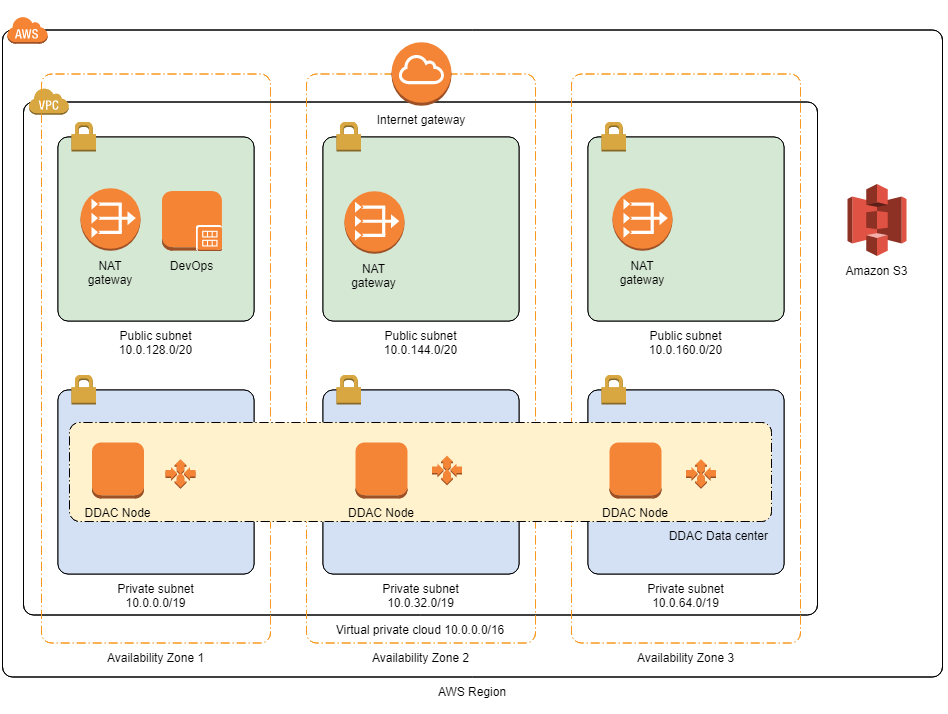
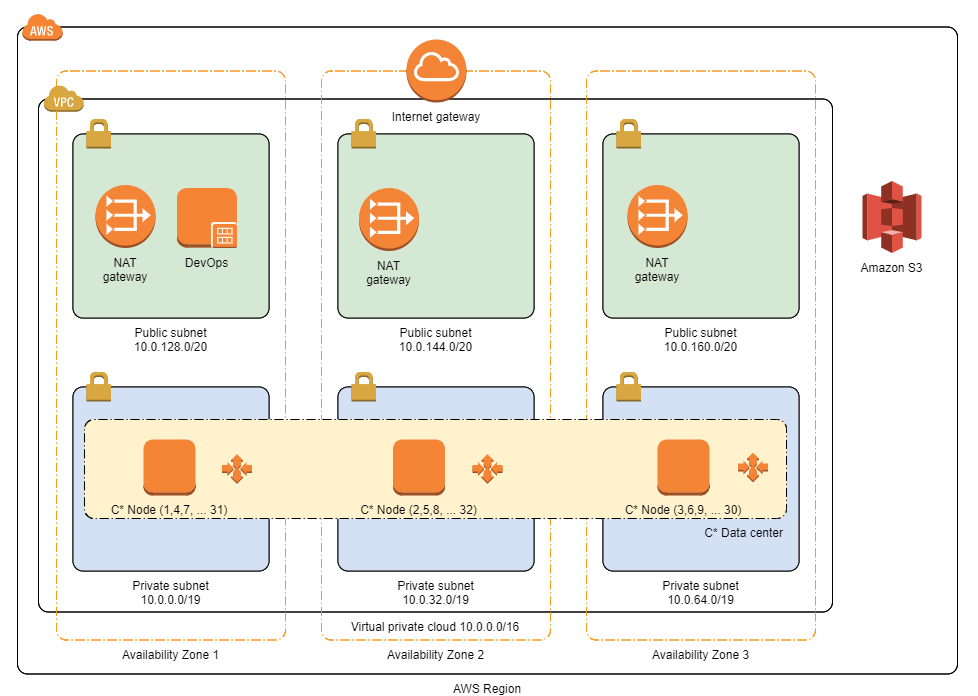
docs

diff --git a/docs/oss-qs-deployment-guide.md b/docs/oss-qs-deployment-guide.md
@@ -1,8 +1,8 @@
-<center><H1>DataStax Distribution of Apache Cassandra ™ on the AWS Cloud</H1></center>
+<center><H1>Apache Cassandra™ 4.0 on the AWS Cloud</H1></center>
 
 <center><H2>Quick Start Reference Deployment</H2></center>
 
-<center>Aug 2019</center>
+<center>Jun 2020</center>
 
 <center>DataStax, Inc.</center>
 
@@ -13,7 +13,7 @@
 - [Overview](#overview)
   - [Costs and Licenses](#costs-and-licenses)
 - [Architecture](#architecture)
-  - [DDAC Data Centers and Nodes](#ddac-data-centers-and-nodes)
+  - [Apache Cassandra Data Centers and Nodes](#apache-cassandra-data-centers-and-nodes)
 - [Prerequisites](#prerequisites)
   - [Specialized Knowledge](#specialized-knowledge)
   - [Technical Requirements](#technical-requirements)
@@ -34,15 +34,15 @@ This Quick Start deployment guide was created by Amazon Web Services (AWS) in pa
 
 # Overview
 
-This Quick Start reference deployment guide provides step-by-step instructions for deploying DataStax Distribution of Apache Cassandra (DDAC) on the Amazon Web Services (AWS) Cloud.
+This Quick Start reference deployment guide provides step-by-step instructions for deploying Apache Cassandra 4.0 on the Amazon Web Services (AWS) Cloud.
 
-As Apache Cassandra™ adoption grows within your organization, so could the challenges involved with using, maintaining, and supporting the technology. This can add considerable cost, complexity, and administrative burden. DataStax Distribution of Apache Cassandra addresses these challenges by streamlining operations and controlling costs for all your Cassandra workloads.
+As Apache Cassandra™ adoption grows within your organization, so could the challenges involved with using, maintaining, and supporting the technology. This can add considerable cost, complexity, and administrative burden. Apache Cassandra addresses these challenges by streamlining operations and controlling costs for all your Cassandra workloads.
 
-You’ll have access to best-in-class, 100% open source compatible Cassandra software, as well as support and services from the experts that authored the majority of the Cassandra code.
+You’ll have access to best-in-class, 100% open source Apache Cassandra software, as well as optional support and services from the experts that authored the majority of the Cassandra code.
 
-[Quick Starts](https://aws.amazon.com/quickstart/?quickstart-all.q=dse) are automated reference deployments that use AWS CloudFormation templates to launch, configure, and run the AWS compute, network, storage, and other services required to deploy a specific workload on AWS.
+[Quick Starts](https://aws.amazon.com/quickstart/?quickstart-all.q=datastax) are automated reference deployments that use AWS CloudFormation templates to launch, configure, and run the AWS compute, network, storage, and other services required to deploy a specific workload on AWS.
 
-This Quick Start is for users who need an easily deployed DDAC cluster for development and or testing purposes
+This Quick Start is for users who need an easily deployed Apache Cassandra cluster for development and or testing purposes
 
 ## Costs and Licenses
 
@@ -50,16 +50,16 @@ You are responsible for the cost of the AWS services used while running this Qui
 
 The AWS CloudFormation template for this Quick Start includes configuration parameters that you can customize. Some of these settings, such as instance type, will affect the cost of deployment. For cost estimates, see the pricing pages for each AWS service you will be using.
 
-This Quick Start includes a limited no-fee license from DataStax. As described in section 1.4 of [DataStax Enterprise Terms](http://www.datastax.com/enterprise-terms), the limited license is for development or non-production use.  To use the Quick Start to build a production environment, you&#39;ll need to acquire a DataStax subscription license.
+This Quick Start includes Apache Cassandra 4.0.
 &nbsp;
 
 # Architecture
 
-Deploying this Quick Start for a new virtual private cloud (VPC) with **default parameters** builds the following DataStax Enterprise environment in the AWS Cloud.
+Deploying this Quick Start for a new virtual private cloud (VPC) with **default parameters** builds the following environment in the AWS Cloud.
 
 ![Figure 1](./assets/arch.png)
 
-<p align=center><b>Figure 1: Quick Start architecture for DDAC on AWS</b></p>
+<p align=center><b>Figure 1: Quick Start architecture for Apache Cassandra on AWS</b></p>
 
 The Quick Start sets up the following components. (The template that deploys the Quick Start into an existing VPC skips the components marked by asterisks.)
 
@@ -67,15 +67,15 @@ The Quick Start sets up the following components. (The template that deploys the
 - A VPC configured with public and private subnets according to AWS best practices, to provide you with your own virtual network on AWS. For more information about the VPC infrastructure, see the [Amazon VPC Quick Start](https://aws.amazon.com/quickstart/architecture/vpc/).\*
 - An Internet gateway to allow access to the Internet.\*
 - Managed NAT gateways to allow outbound Internet access for resources in the private subnets.\*
-- One EC2 instance in the public subnet running devOps apps, which can also be used as a jumpbox to ssh into DDAC nodes in the private subnet.
-- Additional EC2 instances for DDAC nodes, depending on your Quick Start parameter settings. (By default, the Quick Start creates 3 DDAC nodes in private subnets (seednode1, seednode2 and an autoscaling group with 1 node) and can be expanded to a max of 6 nodes.
+- One EC2 instance in the public subnet running devOps apps, which can also be used as a jumpbox to ssh into Apache Cassandra nodes in the private subnet.
+- Additional EC2 instances for Apache Cassandra nodes, depending on your Quick Start parameter settings. (By default, the Quick Start creates 3 Apache Cassandra nodes in private subnets (seednode1, seednode2 and seednode3).
 - One Amazon Elastic Block Store (Amazon EBS) data volume per node instance deployed.
 
-## DDAC Data Centers and Nodes
+## Apache Cassandra Data Centers and Nodes
 
-DDAC data centers are groups of nodes, related and configured within a cluster for replication purposes. The Quick Start supports 1 data center  with 3 nodes that can scale to 6.
+Apache Cassandra data centers are groups of nodes, related and configured within a cluster for replication purposes. The Quick Start creates 1 data center with 1 - 32 nodes.
 
-DDAC stores data replicas on multiple nodes to ensure reliability and fault tolerance. A replication strategy determines the nodes where replicas are placed. The replication strategy is defined per keyspace, and is set during keyspace creation. This Quick Start places nodes in each AWS Availability Zone.
+Apache Cassandra stores data replicas on multiple nodes to ensure reliability and fault tolerance. A replication strategy determines the nodes where replicas are placed. The replication strategy is defined per keyspace, and is set during keyspace creation. This Quick Start places nodes in each AWS Availability Zone.
 &nbsp;
 
 # Prerequisites
@@ -90,7 +90,7 @@ Before you deploy this Quick Start, we recommend that you become familiar with t
 
 We also recommend that you become familiar with the features and configuration of Apache Cassandra.
 
-- [DDAC documentation](https://docs.datastax.com/en/ddac/doc/)
+- [Apache Cassandra documentation](https://cassandra.apache.org/doc/latest/new/index.html)
 
 ## Technical Requirements
 
@@ -100,10 +100,10 @@ This Quick Start uses a Linux AMI (Ubuntu 16.04 LTS) for EC2 instances, and crea
 
 This Quick Start provides two deployment options:
 
-- **Deploy DDAC into a new VPC** (end-to-end deployment). This option builds a new AWS environment consisting of the VPC, subnets, NAT gateways, security groups, and other infrastructure components, and then deploys DDAC cluster into this new VPC.
-- **Deploy DDAC into an existing VPC**. This option provisions DDAC cluster in your existing AWS VPC infrastructure.
+- **Deploy Apache Cassandra into a new VPC** (end-to-end deployment). This option builds a new AWS environment consisting of the VPC, subnets, NAT gateways, security groups, and other infrastructure components, and then deploys Apache Cassandra cluster into this new VPC.
+- **Deploy Apache Cassandra into an existing VPC**. This option provisions Apache Cassandra cluster in your existing AWS VPC infrastructure.
 
-The Quick Start provides separate templates for these options. It also lets you configure CIDR blocks, instance types, and DDAC settings, as discussed later in this guide.
+The Quick Start provides separate templates for these options. It also lets you configure CIDR blocks, instance types, and Apache Cassandra settings, as discussed later in this guide.
 &nbsp;
 
 # Deployment Steps
@@ -111,7 +111,7 @@ The Quick Start provides separate templates for these options. It also lets you 
 ## Step 1. Prepare Your AWS Account
 
 1. If you don&#39;t already have an AWS account, create one at [https://aws.amazon.com](https://aws.amazon.com) by following the on-screen instructions.
-2. Use the region selector in the navigation bar to choose the AWS Region where you want to deploy DDAC on AWS.
+2. Use the region selector in the navigation bar to choose the AWS Region where you want to deploy Apache Cassandra on AWS.
 3. Create a [key pair](https://docs.aws.amazon.com/AWSEC2/latest/UserGuide/ec2-key-pairs.html) in your preferred region.
 4. If necessary, [request a service limit increase](https://console.aws.amazon.com/support/home#/case/create?issueType=service-limit-increase&amp;limitType=service-code-) for the Amazon EC2 **m4.large** instance type. You might need to do this if you already have an existing deployment that uses this instance type, and you think you might exceed the [default limit](http://docs.aws.amazon.com/AWSEC2/latest/UserGuide/ec2-resource-limits.html) with this reference deployment.
 
@@ -121,21 +121,21 @@ The Quick Start provides separate templates for these options. It also lets you 
 
 1. Choose one of the following options to launch the AWS CloudFormation template into your AWS account. For help choosing an option, see deployment options earlier in this guide.
 
-| Option 1 - Deploy DDAC into a new VPC on AWS | Option 2 - Deploy DDAC into an existing VPC on AWS |
+| Option 1 - Deploy Apache Cassandra into a new VPC on AWS | Option 2 - Deploy Apache Cassandra into an existing VPC on AWS |
 | :------------------------------------------: | :------------------------------------------------: |
 |        [Launch](https://fwd.aws/mR5pP)       |           [Launch](https://fwd.aws/eq4AJ)          |
 
-> **Important**     If you&#39;re deploying DDAC into an existing VPC, make sure that your VPC has two (and preferably three) private subnets in different Availability Zones for the node instances. These subnets require [NAT gateways](https://docs.aws.amazon.com/vpc/latest/userguide/vpc-nat-gateway.html) or [NAT instances](https://docs.aws.amazon.com/vpc/latest/userguide/VPC_NAT_Instance.html) in their route tables, to allow the instances to download packages and software without exposing them to the Internet. You&#39;ll also need the domain name option configured in the DHCP options, as explained in the [Amazon VPC documentation](http://docs.aws.amazon.com/AmazonVPC/latest/UserGuide/VPC_DHCP_Options.html). You&#39;ll be prompted for your VPC settings when you launch the Quick Start.
+> **Important**     If you&#39;re deploying Apache Cassandra into an existing VPC, make sure that your VPC has three private subnets in different Availability Zones for the node instances. These subnets require [NAT gateways](https://docs.aws.amazon.com/vpc/latest/userguide/vpc-nat-gateway.html) or [NAT instances](https://docs.aws.amazon.com/vpc/latest/userguide/VPC_NAT_Instance.html) in their route tables, to allow the instances to download packages and software without exposing them to the Internet. You&#39;ll also need the domain name option configured in the DHCP options, as explained in the [Amazon VPC documentation](http://docs.aws.amazon.com/AmazonVPC/latest/UserGuide/VPC_DHCP_Options.html). You&#39;ll be prompted for your VPC settings when you launch the Quick Start.
 
-Each deployment takes about 10-15 minutes to complete, depending on the size of the DDAC cluster to deploy.
+Each deployment takes about 10-15 minutes to complete, depending on the size of the Apache Cassandra cluster to deploy.
 
-1. Check the region that&#39;s displayed in the upper-right corner of the navigation bar, and change it if necessary. This is where the network infrastructure for DDAC will be built. The template is launched in the US East (Ohio) Region by default.
+1. Check the region that&#39;s displayed in the upper-right corner of the navigation bar, and change it if necessary. This is where the network infrastructure for Apache Cassandra will be built. The template is launched in the US East (Ohio) Region by default.
 2. On the **Select Template** page, keep the default setting for the template URL, and then choose **Next**.
 3. On the **Specify Details** page, change the stack name if needed. Review the parameters for the template. Provide values for the parameters that require input. For all other parameters, review the default settings and customize them as necessary. When you finish reviewing and customizing the parameters, choose **Next**.
 
-In the following tables, parameters are listed by category and described separately for the two deployment options. Parameters for deploying DDAC into a new VPC and Parameters for deploying DDAC into an existing VPC
+In the following tables, parameters are listed by category and described separately for the two deployment options. Parameters for deploying Apache Cassandra into a new VPC and Parameters for deploying Apache Cassandra into an existing VPC
 
-- **Option 1: Parameters for deploying DDAC into a new VPC**
+- **Option 1: Parameters for deploying Apache Cassandra into a new VPC**
 
 [View template](https://fwd.aws/DyGDb)
 
@@ -148,42 +148,42 @@ _**VPC Network Configuration:**_
 | Private Subnet 1 CIDR (PrivateSubnet1CIDR) | 10.0.0.0/19 | CIDR block for private subnet 1 located in Availability Zone 1. |
 | Private Subnet 2 CIDR (PrivateSubnet2CIDR) | 10.0.32.0/19 | CIDR block for private subnet 2 located in Availability Zone 2. |
 | Private Subnet 3 CIDR (PrivateSubnet3CIDR) | 10.0.64.0/19 | CIDR block for private subnet 3 located in Availability Zone 3. |
-| Permitted IP range (RemoteAccessCIDR) | _Requires input_ | The CIDR IP range that is permitted to SSH to the DevOps EC2 instance for the console. We recommend that you set this value to a trusted IP range. For example, you might want to grant only your corporate network access to the software. |
 | Public Subnet 1 CIDR (PublicSubnet1CIDR) | 10.0.128.0/20 | CIDR block for the public (DMZ) subnet 1 located in Availability Zone 1. |
 | Public Subnet 2 CIDR (PublicSubnet2CIDR) | 10.0.144.0/20 | CIDR block for the public (DMZ) subnet 2 located in Availability Zone 2. |
 | Public Subnet 3 CIDR (PublicSubnet3CIDR) | 10.0.160.0/20 | CIDR block for the public (DMZ) subnet 3 located in Availability Zone 3. |
 
-_**DDAC Cluster/Nodes Configuration:**_
+_**Apache Cassandra Cluster/Nodes Configuration:**_
 
 | Parameter label (name) | Default | Description |
 | ---------------------- | :-----: | ----------- |
-| DDAC Install Type (DDACInstallType) | Dev | Choose "Dev" or "Standard". <br> Dev allows 1 or 2 nodes. <br>Standard installs 3 nodes in an autoscaling group with a max of 6. |
-| DDAC Number of nodes to install (DDACDevInstallNodeCount) | 1 | Choose "1" or "2". <br>If DDACInstallType=Standard, then this parameter is ignored|
-| Cluster Name (ClusterName) | DDAC-Cluster | The name of the DDAC cluster. |
-| Data Center Name (DatacenterName) | DDAC-dc0 | Name of the DDAC data center. |
-| Create Cluster in Public Subnet (CreateClusterWithPublicIP) | false | Should create the DDAC Cluster nodes in public subnet. |
-| DDAC Instance Type (DDACInstanceType) | m4.large | EC2 instance type for DDAC nodes. |
-| DDAC Volume Size (DDACVolumeSize) | 1024 | EBS volume size of the DDAC Cluster Nodes in GB. |
-| Email Address (EmailAddress) | _Requires input_ | Email Address for cloudwatch notifications. |
+| Apache Cassandra Version (OSSVersion) | 4.0 | Apache Cassandra version to install . |
+| Number of nodes to install (ClusterSize) | 3 | Choose from "1 - 32" for number of cassandra nodes to install.|
+| Cluster Name (ClusterName) | Cassandra-Cluster | The name of the Apache Cassandra cluster. |
+| Data Center Name (DatacenterName) | OSS-dc0 | Name of the Apache Cassandra data center. |
+| Node Instance Type (NodeInstanceType) | m4.large | EC2 instance type for Apache Cassandra nodes. |
+| Node Volume Size (NodeVolumeSize) | 1024 | EBS volume size of the Apache Cassandra Cluster Nodes in GB. |
+
+_**Cassandra Cluster Access:**_
+| Create Cluster in Public Subnet (CreateClusterWithPublicIP) | false | Should create the Apache Cassandra Cluster nodes in public subnet. |
+| Permitted IP range (RemoteAccessCIDR) | _Requires input_ | The CIDR IP range that is permitted to SSH to the DevOps EC2 instance for the console. We recommend that you set this value to a trusted IP range. For example, you might want to grant only your corporate network access to the software. |
+| Key Name (KeyPairName) | _Requires input_ | Public/private key pair, which allows you to connect securely to your instance after it launches. When you created an AWS account, this is the key pair you created in your preferred region. |
 
 _**DevOps Configuration:**_
-
 | Parameter label (name) | Default | Description |
 | ---------------------- | :-----: | ----------- |
 | Instance Type (DevInstanceType) | t2.medium | EC2 instance type for the DevOps Host.  |
 | Volume Sizes (DevVolumeSize) | 1024 | The EBS volume size, in GiB, for the DevOps Host. |
-| Key Name (KeyPairName) | _Requires input_ | Public/private key pair, which allows you to connect securely to your instance after it launches. When you created an AWS account, this is the key pair you created in your preferred region. |
 
 _**AWS Quick Start Configuration:**_
 
 | Parameter label (name) | Default | Description |
 | ---------------------- | :-----: | ----------- |
-| Quick Start S3 Bucket Name (QSS3BucketName) | quickstart-reference | S3 bucket where the Quick Start templates and scripts are installed. Use this parameter to specify the S3 bucket name you&#39;ve created for your copy of Quick Start assets, if you decide to customize or extend the Quick Start for your own use. The bucket name can include numbers, lowercase letters, uppercase letters, and hyphens, but should not start or end with a hyphen. |
-| Quick Start S3 Key Prefix (QSS3KeyPrefix) | datastax/latest/ | The [S3 key name prefix](https://docs.aws.amazon.com/AmazonS3/latest/dev/UsingMetadata.html) used to simulate a folder for your copy of Quick Start assets, if you decide to customize or extend the Quick Start for your own use. This prefix can include numbers, lowercase letters, uppercase letters, hyphens, and forward slashes. |
+| Quick Start S3 Bucket Name (S3BucketName) | aws-quickstart | S3 bucket where the Quick Start templates and scripts are installed. Use this parameter to specify the S3 bucket name you&#39;ve created for your copy of Quick Start assets, if you decide to customize or extend the Quick Start for your own use. The bucket name can include numbers, lowercase letters, uppercase letters, and hyphens, but should not start or end with a hyphen. |
+| Quick Start S3 Key Prefix (S3KeyPrefix) | quickstart-datastax-oss | The [S3 key name prefix](https://docs.aws.amazon.com/AmazonS3/latest/dev/UsingMetadata.html) used to simulate a folder for your copy of Quick Start assets, if you decide to customize or extend the Quick Start for your own use. This prefix can include numbers, lowercase letters, uppercase letters, hyphens, and forward slashes. |
 
 <br/>
 
-- **Option 2: Parameters for deploying DDAC into an existing VPC**
+- **Option 2: Parameters for deploying Apache Cassandra into an existing VPC**
 
 [View template](https://fwd.aws/Dz54E)
 
@@ -196,59 +196,60 @@ _**VPC Network Configuration:**_
 | Private Subnet 1 ID (PrivateSubnet1ID) | _Requires input_ | Subnet ID for private subnet 1 located in Availability Zone 1. |
 | Private Subnet 2 ID (PrivateSubnet2ID) | _Requires input_ | Subnet ID for private subnet 2 located in Availability Zone 2. |
 | Private Subnet 3 ID (PrivateSubnet3ID) | _Requires input_ | Subnet ID for private subnet 3 located in Availability Zone 3. |
-| Permitted IP range (RemoteAccessCIDR) | _Requires input_ | The CIDR IP range that is permitted to SSH to the DevOps EC2 instance for the console. We recommend that you set this value to a trusted IP range. For example, you might want to grant only your corporate network access to the software. |
+DevOps EC2 instance for the console. We recommend that you set this value to a trusted IP range. For example, you might want to grant only your corporate network access to the software. |
 | Public Subnet 1 ID (PublicSubnet1CIDR) | _Requires input_ | Subnet ID for the public (DMZ) subnet 1 located in Availability Zone 1. |
 | Public Subnet 2 ID (PublicSubnet2CIDR) | _Requires input_ | Subnet ID for the public (DMZ) subnet 2 located in Availability Zone 2. |
 | Public Subnet 3 ID (PublicSubnet3CIDR) | _Requires input_ | Subnet ID for the public (DMZ) subnet 3 located in Availability Zone 3. |
 
-_**DDAC Cluster/Nodes Configuration:**_
+_**Apache Cassandra Cluster/Nodes Configuration:**_
 
 | Parameter label (name) | Default | Description |
 | ---------------------- | :-----: | ----------- |
-| DDAC Install Type (DDACInstallType) | Dev | Choose "Dev" or "Standard". <br> Dev allows 1 or 2 nodes. <br>Standard installs 3 nodes in an autoscaling group with a max of 6. |
-| DDAC Number of nodes to install (DDACDevInstallNodeCount) | 1 | Choose "1" or "2". <br>If DDACInstallType=Standard, then this parameter is ignored|
-| Cluster Name (ClusterName) | DDAC Cluster | The name of the DDAC cluster. |
-| Data Center Name (DatacenterName) | DDAC-dc0 | Name of the DDAC data center. |
-| Create Cluster in Public Subnet (CreateClusterWithPublicIP) | false | Should create the DDAC Cluster nodes in public subnet. |
-| DDAC Instance Type (DDACInstanceType) | m4.large | EC2 instance type for DDAC nodes. |
-| DDAC Volume Size (DDACVolumeSize) | 1024 | EBS volume size of the DDAC Cluster Nodes in GB. |
-| Email Address (EmailAddress) | _Requires input_ | Email Address for cloudwatch notifications. |
+| Apache Cassandra Version (OSSVersion) | 4.0 | Apache Cassandra version to install . |
+| Number of nodes to install (ClusterSize) | 3 | Choose from "1 - 32" for number of cassandra nodes to install.|
+| Cluster Name (ClusterName) | Cassandra-Cluster | The name of the Apache Cassandra cluster. |
+| Data Center Name (DatacenterName) | OSS-dc0 | Name of the Apache Cassandra data center. |
+| Node Instance Type (NodeInstanceType) | m4.large | EC2 instance type for Apache Cassandra nodes. |
+| Node Volume Size (NodeVolumeSize) | 1024 | EBS volume size of the Apache Cassandra Cluster Nodes in GB. |
+
+_**Cassandra Cluster Access:**_
+| Create Cluster in Public Subnet (CreateClusterWithPublicIP) | false | Should create the Apache Cassandra Cluster nodes in public subnet. |
+| Permitted IP range (RemoteAccessCIDR) | _Requires input_ | The CIDR IP range that is permitted to SSH to the DevOps EC2 instance for the console. We recommend that you set this value to a trusted IP range. For example, you might want to grant only your corporate network access to the software. |
+| Key Name (KeyPairName) | _Requires input_ | Public/private key pair, which allows you to connect securely to your instance after it launches. When you created an AWS account, this is the key pair you created in your preferred region. |
 
 _**DevOps Configuration:**_
-
 | Parameter label (name) | Default | Description |
 | ---------------------- | :-----: | ----------- |
 | Instance Type (DevInstanceType) | t2.medium | EC2 instance type for the DevOps Host.  |
 | Volume Sizes (DevVolumeSize) | 1024 | The EBS volume size, in GiB, for the DevOps Host. |
-| Key Name (KeyPairName) | _Requires input_ | Public/private key pair, which allows you to connect securely to your instance after it launches. When you created an AWS account, this is the key pair you created in your preferred region. |
 
 _**AWS Quick Start Configuration:**_
 
 | Parameter label (name) | Default | Description |
 | ---------------------- | :-----: | ----------- |
-| Quick Start S3 Bucket Name (QSS3BucketName) | quickstart-reference | S3 bucket where the Quick Start templates and scripts are installed. Use this parameter to specify the S3 bucket name you&#39;ve created for your copy of Quick Start assets, if you decide to customize or extend the Quick Start for your own use. The bucket name can include numbers, lowercase letters, uppercase letters, and hyphens, but should not start or end with a hyphen. |
-| Quick Start S3 Key Prefix (QSS3KeyPrefix) | datastax/latest/ | The [S3 key name prefix](https://docs.aws.amazon.com/AmazonS3/latest/dev/UsingMetadata.html) used to simulate a folder for your copy of Quick Start assets, if you decide to customize or extend the Quick Start for your own use. This prefix can include numbers, lowercase letters, uppercase letters, hyphens, and forward slashes. |
+| Quick Start S3 Bucket Name (S3BucketName) | aws-quickstart | S3 bucket where the Quick Start templates and scripts are installed. Use this parameter to specify the S3 bucket name you&#39;ve created for your copy of Quick Start assets, if you decide to customize or extend the Quick Start for your own use. The bucket name can include numbers, lowercase letters, uppercase letters, and hyphens, but should not start or end with a hyphen. |
+| Quick Start S3 Key Prefix (S3KeyPrefix) | quickstart-datastax-oss | The [S3 key name prefix](https://docs.aws.amazon.com/AmazonS3/latest/dev/UsingMetadata.html) used to simulate a folder for your copy of Quick Start assets, if you decide to customize or extend the Quick Start for your own use. This prefix can include numbers, lowercase letters, uppercase letters, hyphens, and forward slashes. |
 
 1. On the **Options** page, you can [specify tags](https://docs.aws.amazon.com/AWSCloudFormation/latest/UserGuide/aws-properties-resource-tags.html) (key-value pairs) for resources in your stack and [set advanced options](https://docs.aws.amazon.com/AWSCloudFormation/latest/UserGuide/cfn-console-add-tags.html). When you&#39;re done, choose **Next**.
 2. On the **Review** page, review and confirm the template settings. Under **Capabilities** , select the check box to acknowledge that the template will create IAM resources.
 3. Choose **Create** to deploy the stack.
 4. Monitor the status of the stack.
 
-This deployment uses nested stacks. In addition to the root stack, you&#39;ll see a VPC stack (if you choose to deploy the Quick Start into a new VPC), a DSE OpsCenter stack and one or more data center stacks. When the status of the root stack is **CREATE\_COMPLETE** , the installation of DDAC Cluster is complete, all node instances have been created, and DDAC Cluster is ready.
+This deployment uses nested stacks. In addition to the root stack, you&#39;ll see a VPC stack (if you choose to deploy the Quick Start into a new VPC) and multiple stacks for nodes and devops/bastion node. When the status of the root stack is **CREATE\_COMPLETE** , the installation of Apache Cassandra Cluster is complete, all node instances have been created, and Apache Cassandra Cluster is ready.
 
-1. Use the _DDACUrl_ displayed in the **Outputs** tab for the stack to view the DDAC developer resource site.
+1. Use the _DevUrl_ displayed in the **Outputs** tab for the stack to view the Apache Cassandra developer resource site.
 
-![DDAC Url](./assets/ddac-stack-output-ddac-url.png)
+![Dev Url](./assets/oss-stack-output-dev-url.png)
 
 > **Important:** We recommend deployment into a new VPC (Option 1). For production environments, we recommend that you place the cluster in private subnet (CreateClusterWithPublicIP=false).
 
 ## Step 3. Test the Deployment
 
-After you deploy the DDAC cluster, the quickest way to begin using the cluster is to use SSH to connect to the DevOps instance and then to one of the node instances. You can use [SSH agent forwarding](https://aws.amazon.com/blogs/security/securely-connect-to-linux-instances-running-in-a-private-amazon-vpc/) using the key pair (replacing the KEY_FILE and DevIpAddress values for those of your cluster):
+After you deploy the Apache Cassandra cluster, the quickest way to begin using the cluster is to use SSH to connect to the DevOps instance and then to one of the node instances. You can use [SSH agent forwarding](https://aws.amazon.com/blogs/security/securely-connect-to-linux-instances-running-in-a-private-amazon-vpc/) using the key pair (replacing the KEY_FILE and DevIpAddress values for those of your cluster):
 
 You can get the ip addresses of the nodes from the output tab of the stack.
 
-![Figure 3](./assets/ddac-stack-output-dev.png)
+![Figure 3](./assets/oss-stack-output-dev.png)
 
 ~~~shell
 ssh -i $KEY_FILE ubuntu@$DevIpAddress
@@ -256,7 +257,7 @@ ssh -i $KEY_FILE ubuntu@$DevIpAddress
 
 You can get the Seed1PrivateIpAddress from the output tab of the stack.
 
-![Figure 3](./assets/ddac-stack-output-seed1.png)
+![Figure 3](./assets/oss-stack-output-seed1.png)
 
 Once logged into the DevOps instance, run
 
@@ -264,7 +265,7 @@ Once logged into the DevOps instance, run
 ssh -i $KEY_FILE ubuntu@$Seed1PrivateIpAddress
 ~~~
 
-You can then view the status of the DDAC Cluster:
+You can then view the status of the Apache Cassandra Cluster:
 ~~~shell
 ~$ nodetool status
 ~~~
@@ -273,11 +274,11 @@ For the default 3 node cluster, the nodetool status should be like
 
 ![nodetool-status](./assets/nodetool_status.png)
 
-The Developer resource web site is accessible at DDACUrl shown in the outputs.
+The Developer resource web site is accessible at DevUrl shown in the outputs.
 
 ## Step 4. Back up Your Data
 
-DDAC backs up data by taking a snapshot of all on-disk data files (SSTable files) stored in the data directory. You can take a snapshot of all keyspaces, a single keyspace, or a single table while the system is online. See [Backing up and Restoring data](https://docs.datastax.com/en/ddac/doc/datastax_enterprise/operations/opsBackupRestoreTOC.html).
+Apache Cassandra backs up data by taking a snapshot of all on-disk data files (SSTable files) stored in the data directory. You can take a snapshot of all keyspaces, a single keyspace, or a single table while the system is online. See [Backing up and Restoring data](https://cassandra.apache.org/doc/latest/operating/backups.html).
 For storing the backups in AWS S3, see [Backup to S3](https://aws.amazon.com/getting-started/tutorials/backup-to-s3-cli/)
 &nbsp;
 
@@ -307,10 +308,10 @@ For additional information, see [Troubleshooting AWS CloudFormation](https://doc
 - Amazon VPC
 [https://aws.amazon.com/documentation/vpc/](https://aws.amazon.com/documentation/vpc/)
 
-**DDAC**
+**Apache Cassandra**
 
-- DDAC documentation
-[https://docs.datastax.com/en/ddac/doc/](https://docs.datastax.com/en/ddac/doc/)
+- Apache Cassandra documentation
+[https://cassandra.apache.org/doc/latest/new/index.html](https://cassandra.apache.org/doc/latest/new/index.html)
 - DataStax Academy online courses and tutorials
 [https://academy.datastax.com/](https://academy.datastax.com/)
 
@@ -322,14 +323,14 @@ For additional information, see [Troubleshooting AWS CloudFormation](https://doc
 
 ## Send Us Feedback
 
-You can visit our [GitHub repository](https://github.com/aws-quickstart/quickstart-datastax) to download the templates and scripts for this Quick Start, to post your comments, and to share your customizations with others.
+You can visit our [GitHub repository](https://github.com/aws-quickstart/quickstart-datastax-oss) to download the templates and scripts for this Quick Start, to post your comments, and to share your customizations with others.
 &nbsp;
 
 ## Document Revisions
 
 | Date | Change | In sections |
 | --- | --- | --- |
-| Aug 2019 | Initial publication | — |
+| Jun 2020 | Initial publication | — |
 
 <br/>
 <br/>
